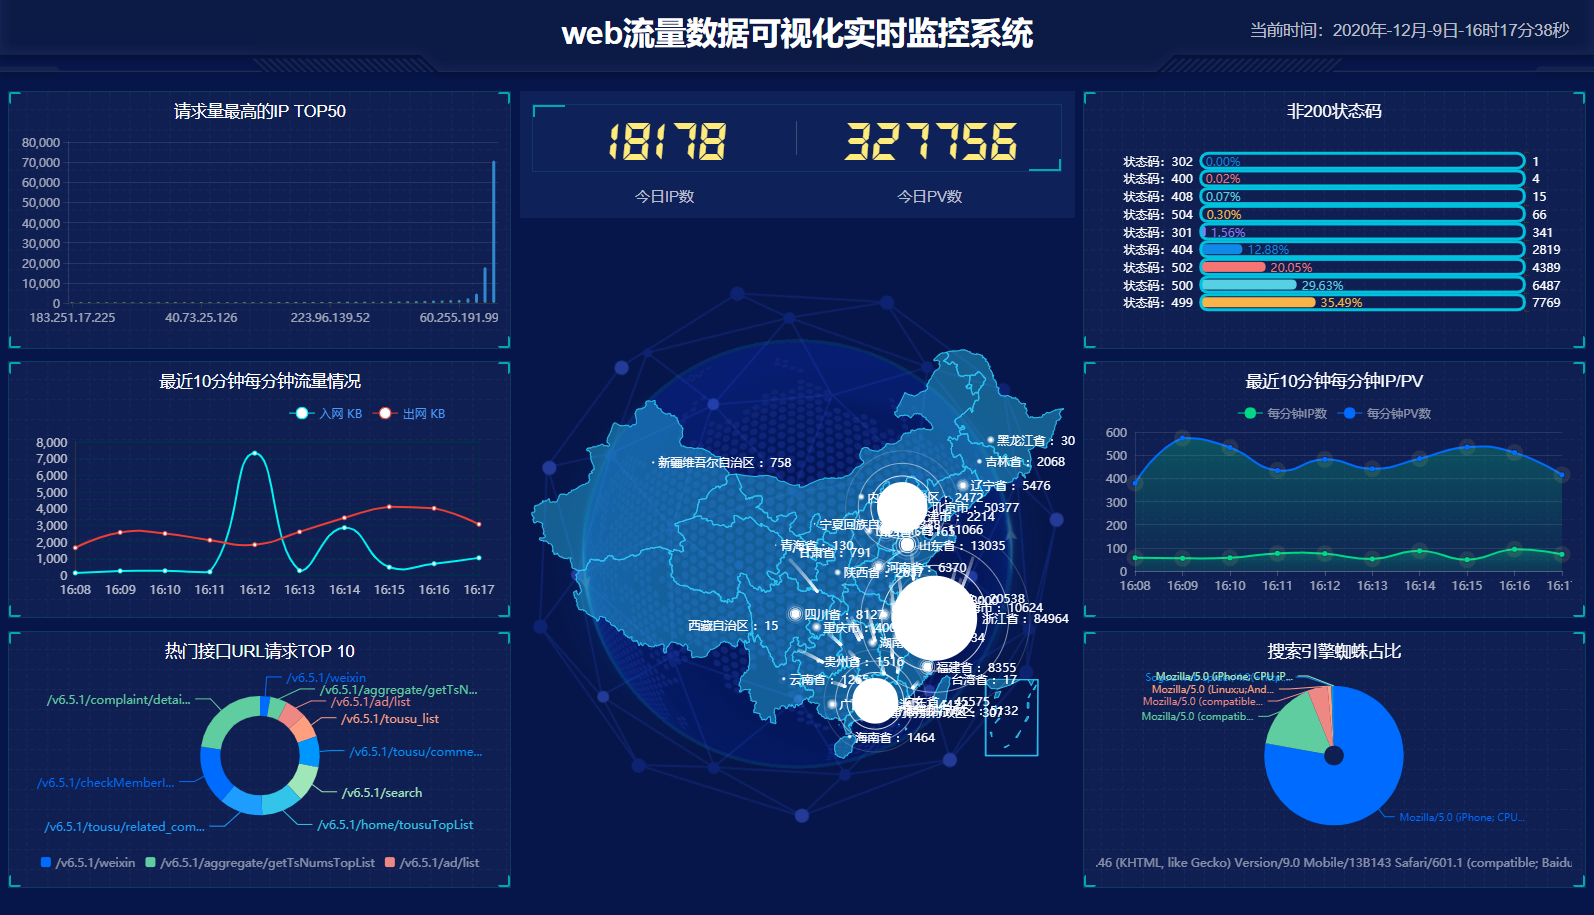
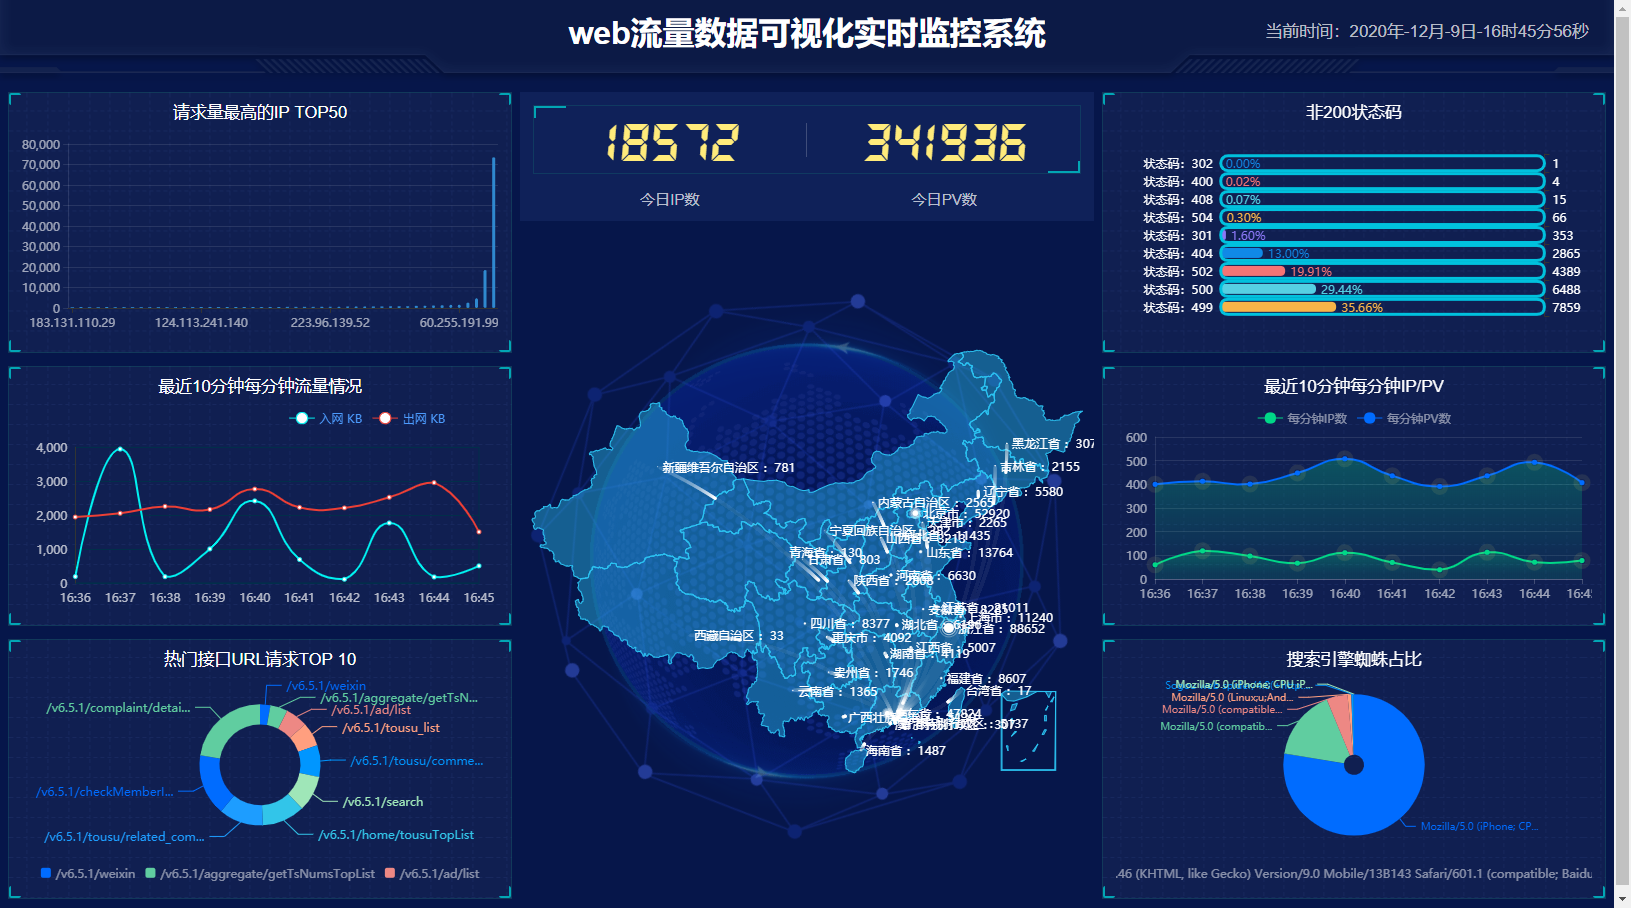
更新效果图

diff --git a/webServer/static/js/myMap.js b/webServer/static/js/myMap.js
@@ -103,7 +103,7 @@ window.chart_load_func['map_chart'] = function() {
               }
             },
             symbolSize: function(val) {
-              return val[2] / 1000;
+              return val[2] / 10000;
               // return  10;
             },
             itemStyle: {
